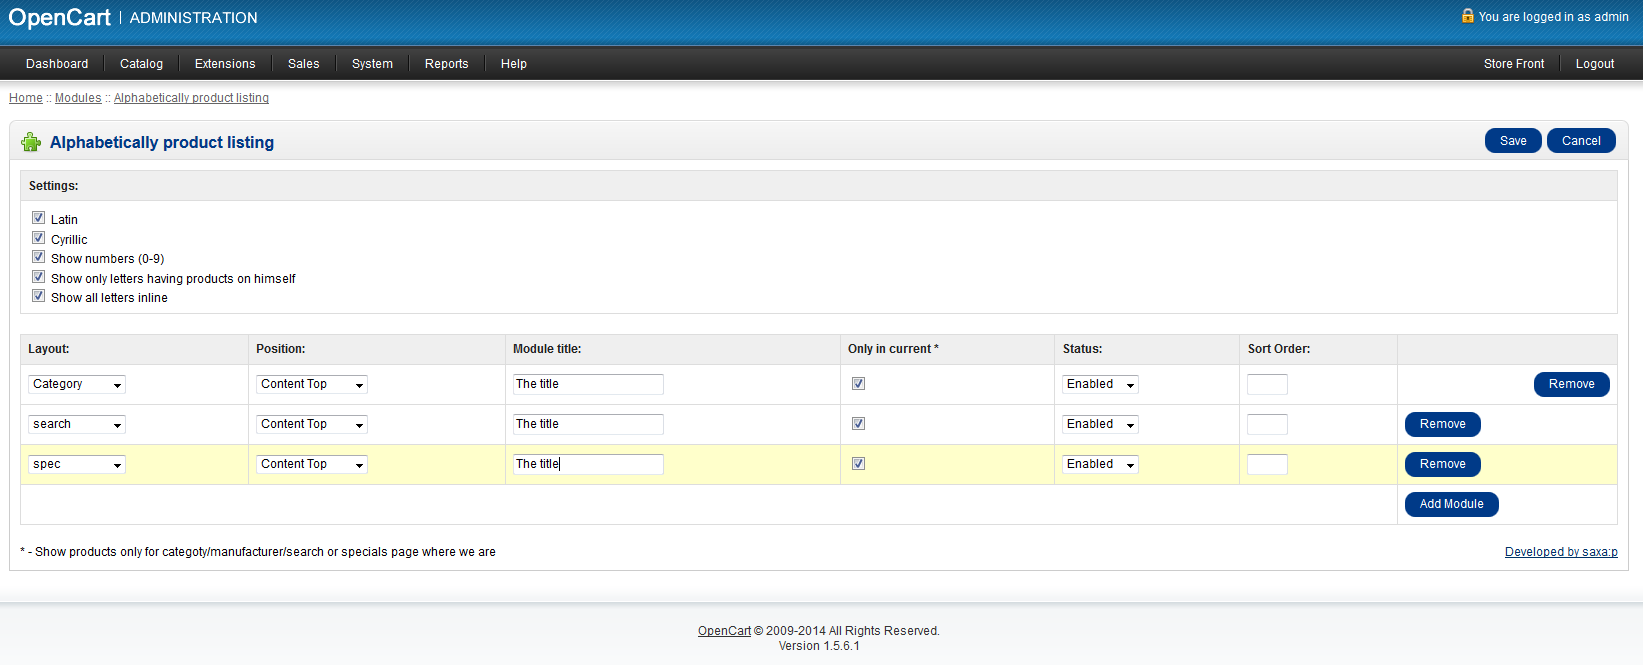
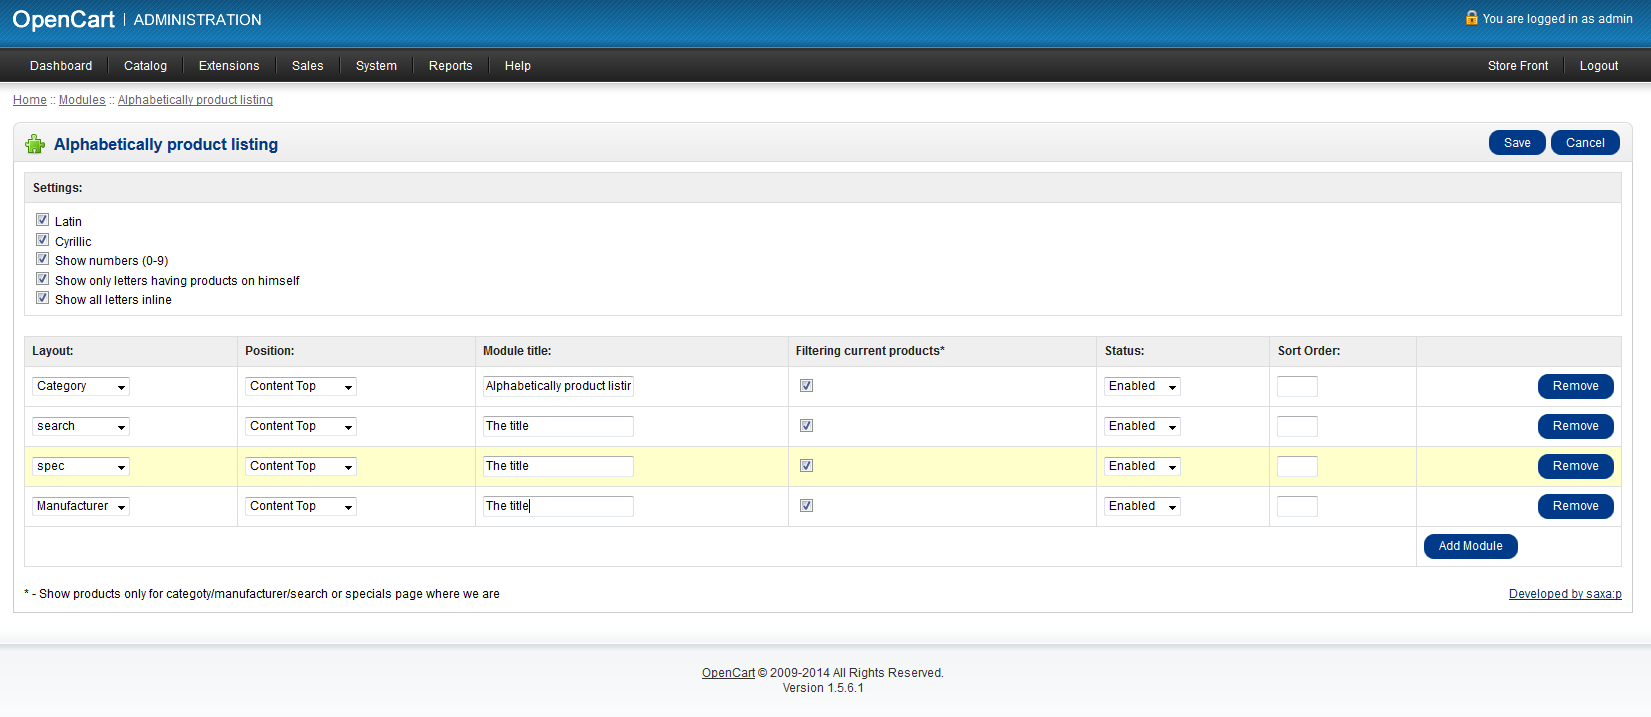
one more

diff --git a/upload/admin/language/russian/module/AlphabeticallyProducts.php b/upload/admin/language/russian/module/AlphabeticallyProducts.php
@@ -24,7 +24,7 @@ $_['cyrtxt']  = 'Показать кириллицу';
 $_['onlytxt'] = 'Показать только буквы на которые есть товары';
 $_['numtxt'] = 'Показать цифры';
 $_['linetxt'] = 'Показывать все буквы в линию';
-$_['from_currenttxt'] = 'Только в текущей *';
+$_['from_currenttxt'] = 'Фильтровать товары *';
 $_['from_currenttxt2'] = '* - Вывести товары только для категории/производителя/страницы поиска или акций в который сейчас находимся';
 $_['title'] = 'Заголовок модуля:';
 

diff --git a/upload/admin/language/english/module/AlphabeticallyProducts.php b/upload/admin/language/english/module/AlphabeticallyProducts.php
@@ -23,7 +23,7 @@ $_['cyrtxt']  = 'Cyrillic';
 $_['onlytxt'] = 'Show only letters having products on himself';
 $_['numtxt'] = 'Show numbers (0-9)';
 $_['linetxt'] = 'Show all letters inline';
-$_['from_currenttxt'] = 'Only in current *';
+$_['from_currenttxt'] = 'Filtering current products*';
 $_['from_currenttxt2'] = '* - Show products only for categoty/manufacturer/search or specials page where we are';
 $_['title'] = 'Module title:';
 
